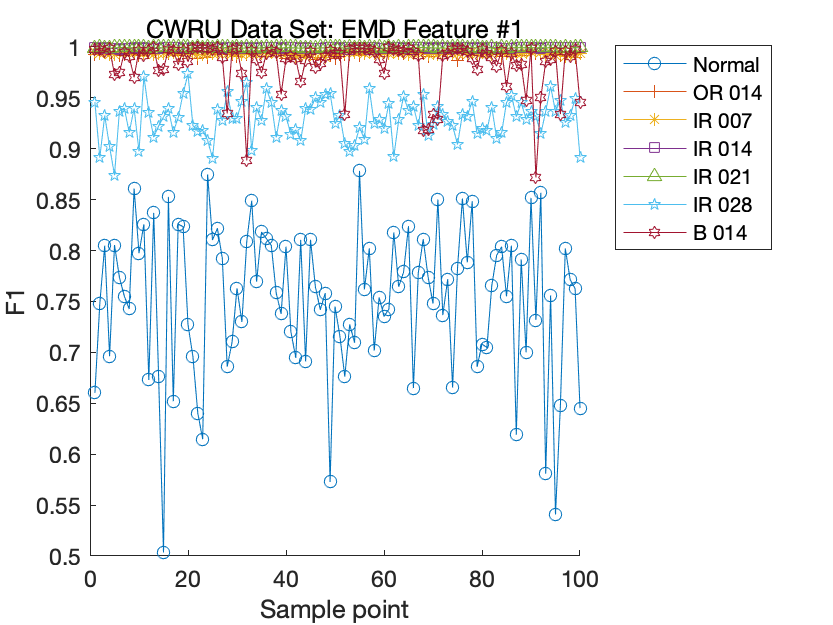
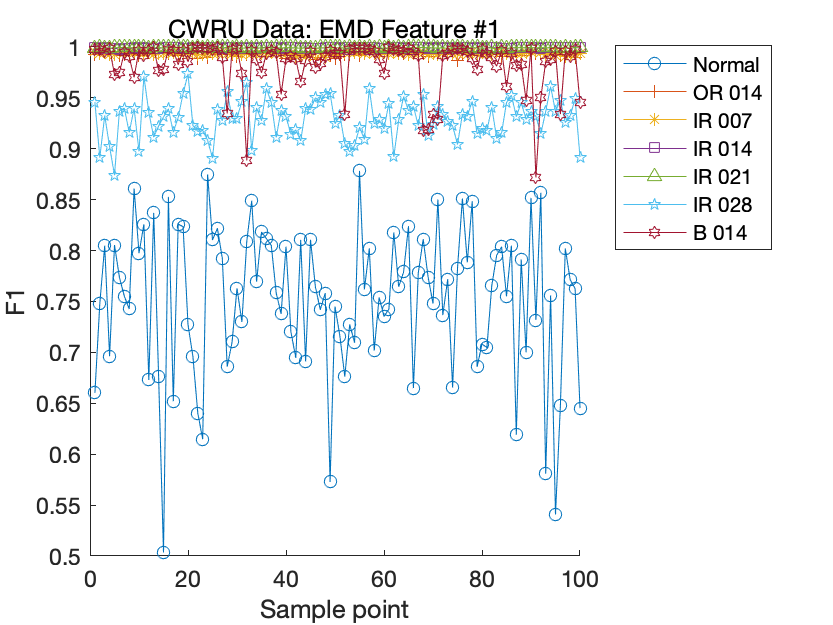
Visualise the EMD features of the CWRU data set

Changed region(s): [[0.1561, 0.0304, 0.6242, 0.0608]]

diff --git a/src/visualization/CWRU_EMD_features.m b/src/visualization/CWRU_EMD_features.m
@@ -66,7 +66,7 @@ for f=1:m_EMD
     plot(F_EMD_a5(f, :), 'Marker' , '^');
     plot(F_EMD_a6(f, :), 'Marker' , 'p');
     plot(F_EMD_a7(f, :), 'Marker' , 'h');
-    title(strcat('CWRU Data Set: EMD Feature #', num2str(f)));
+    title(strcat('CWRU Data: EMD Feature #', num2str(f)));
     xlabel('Sample point');
     ylabel(strcat('F', num2str(f)));
     legend('Normal', 'OR 014', 'IR 007', 'IR 014', 'IR 021', 'IR 028', 'B 014', 'Location', 'northeastoutside');
